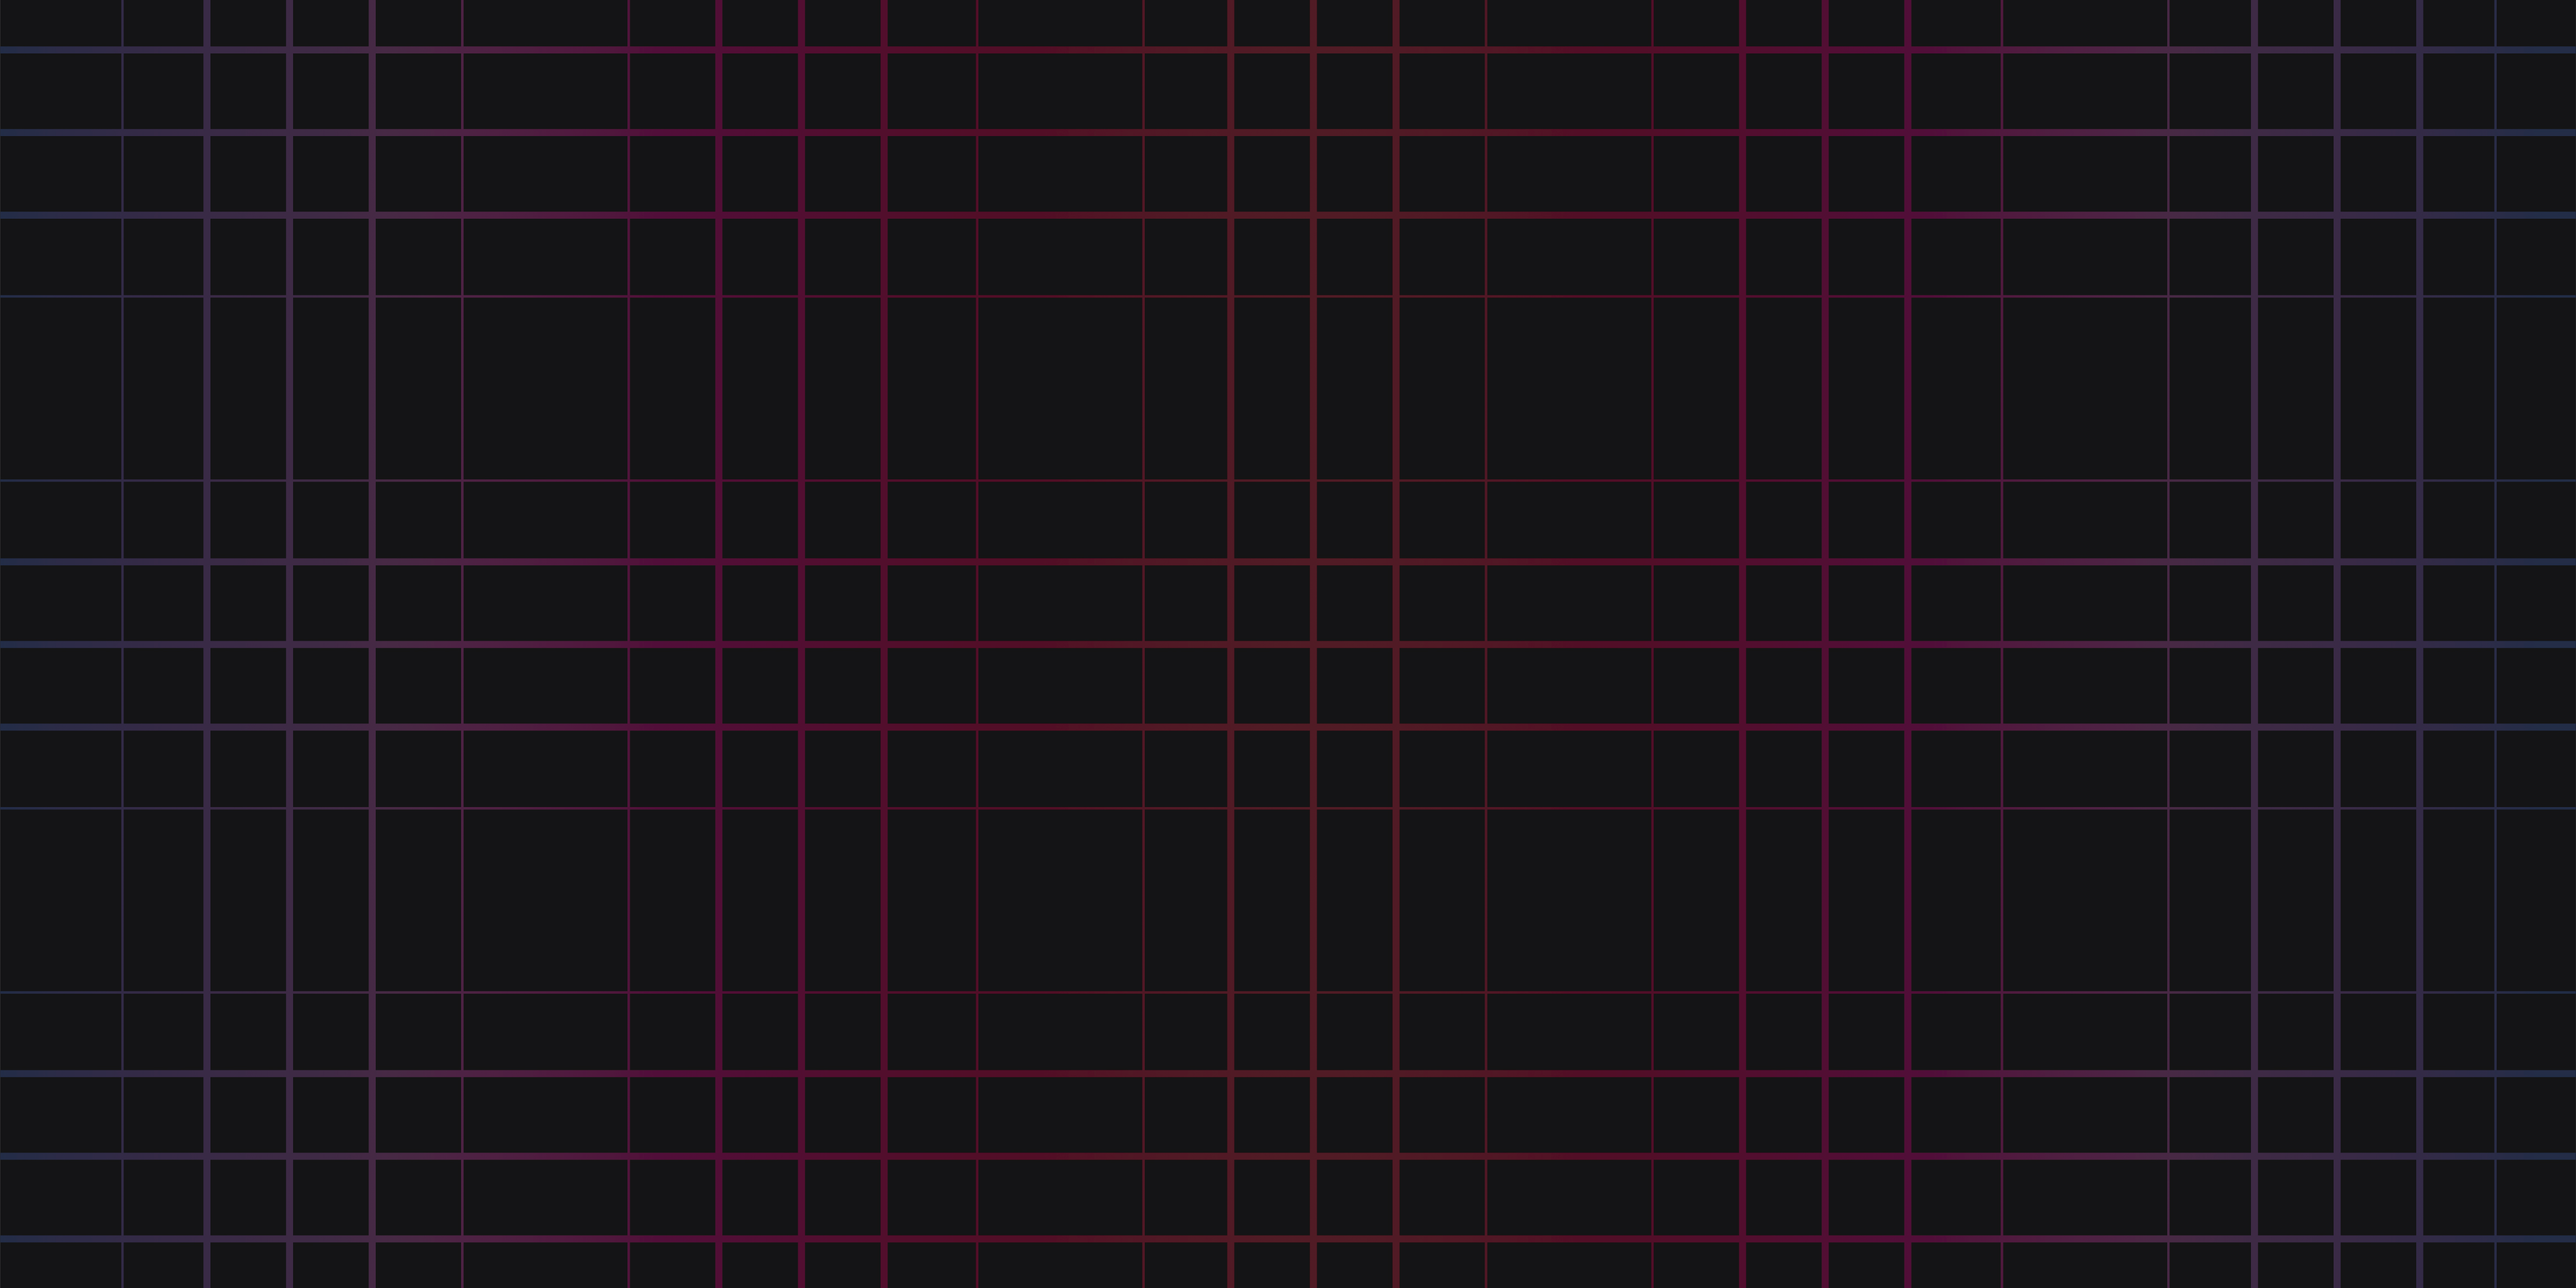
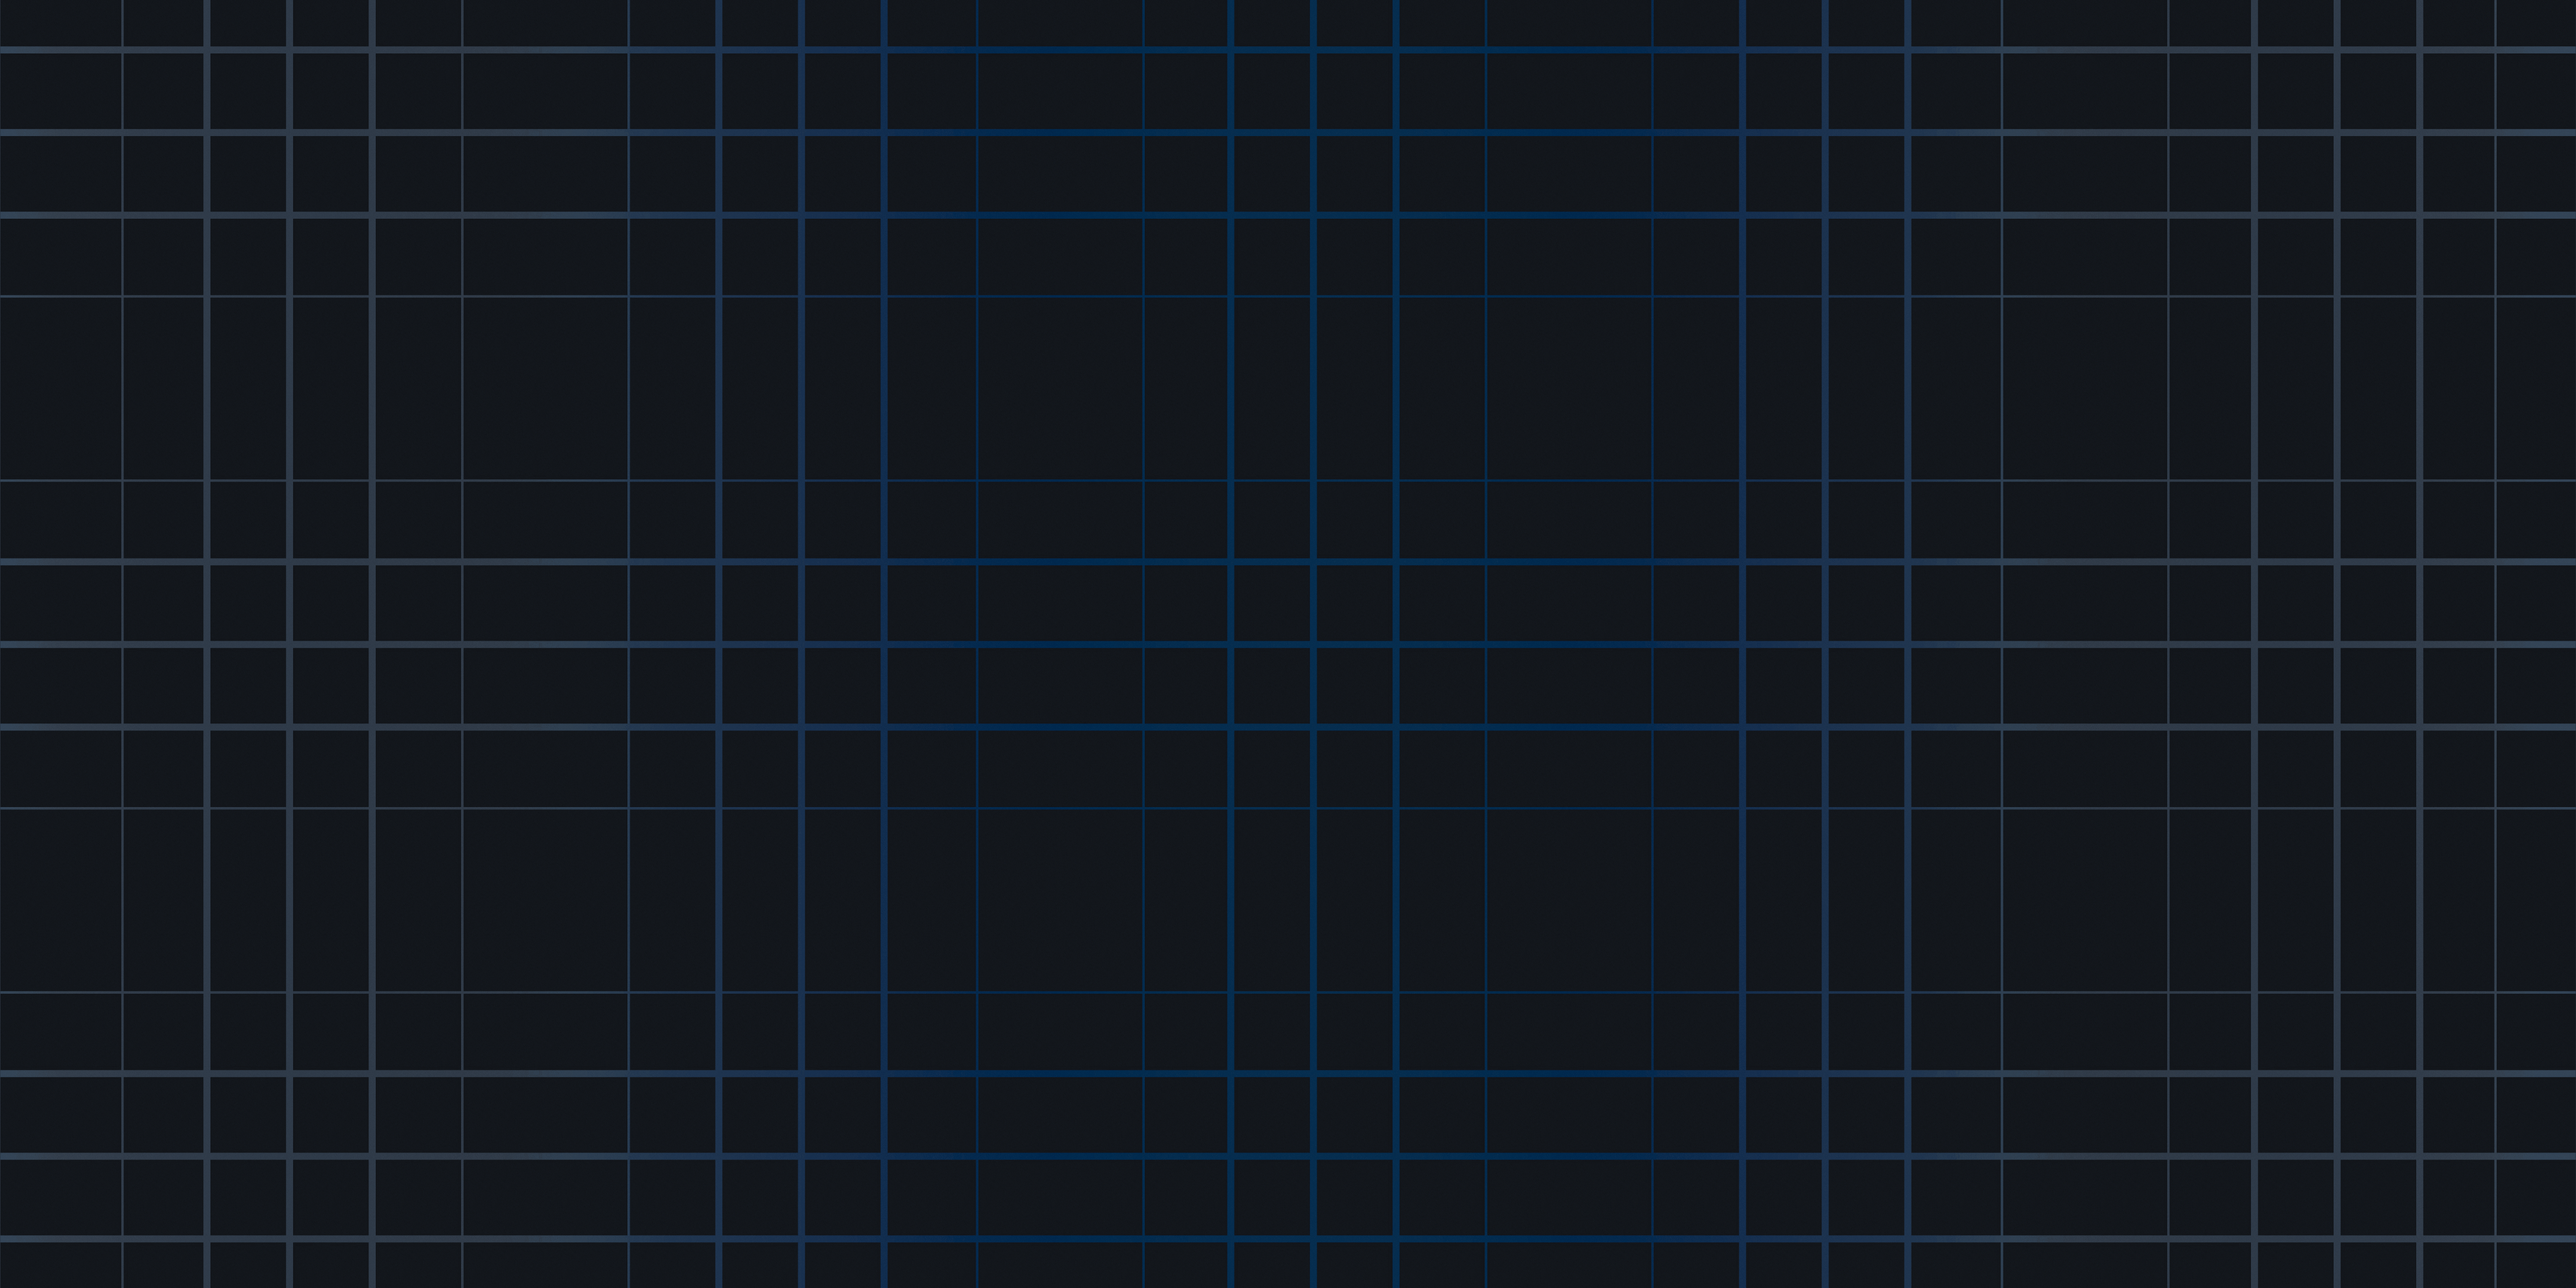
Atualização do layout do site

diff --git a/contato.html b/contato.html
@@ -14,13 +14,13 @@
     <link href="https://fonts.googleapis.com/css2?family=Edu+NSW+ACT+Cursive:wght@400..700&family=Raleway:ital,wght@0,100..900;1,100..900&display=swap" rel="stylesheet">
     
     <title>Jogo de Jogar - Contato</title>
-    <link rel="shortcut icon" href="imagens/joystick.png">
+    <link rel="shortcut icon" href="imagens/iconShortcut.png">
 </head>
 
 <body>
     <header>
         <a href="index.html" title="Home">
-            <img src="imagens/joystick.png" class="header-img" alt="Um Jogo" title="Um Jogo">
+            <img src="imagens/iconHome.png" class="header-img" alt="Um Jogo" title="Um Jogo">
         </a>
         <a href="javascript:mostrarmenu()" class="menu">
             <i class="fas fa-bars"></i>
@@ -49,27 +49,29 @@
         </nav>
     </header>
     <main>
-        <h1>Entre em Contato</h1>
-        <div class="formulario">
-            <form name="form-cadastro" action="" method="post" enctype="multipart/form-data" class="formulario-container">
-                <label for="nome">Digite seu nome:</label>
-                <input type="text" class="formulario" name="nome" id="nome" size="50" maslength="40" placeholder="Nome Completo" autocomplete="off" required>
-                <br>
-                <label for="email">Digite seu e-mail:</label>
-                <input type="email" name="email" id="email" maxlength="50" placeholder="Digite um e-mail válido" autocomplete="off" required class="formulario" inputmode="email">
-                <br>
-                <label for="mensagem">Escreva sua mensagem</label>
-                <br>
-                <textarea name="mensagem" id="mensagem" required placeholder="Digite uma mensagem" class="formulario" rows="15"></textarea>
-                <br>
-                <button type="submit" class="btn-submit" onclick="validar()">
-                    Enviar Dados
-                </button>
-                <button type="reset" class="btn-reset">
-                    Redefinir
-                </button>
-            </form>
-        </div>
+        <section class="container">
+            <h1>Entre em Contato</h1>
+            <div class="formulario">
+                <form name="form-cadastro" action="" method="post" enctype="multipart/form-data" class="formulario-container">
+                    <label for="nome">Digite seu nome:</label>
+                    <input type="text" class="formulario" name="nome" id="nome" size="50" maslength="40" placeholder="Nome Completo" autocomplete="off" required>
+                    <br>
+                    <label for="email">Digite seu e-mail:</label>
+                    <input type="email" name="email" id="email" maxlength="50" placeholder="Digite um e-mail válido" autocomplete="off" required class="formulario" inputmode="email">
+                    <br>
+                    <label for="mensagem">Escreva sua mensagem</label>
+                    <br>
+                    <textarea name="mensagem" id="mensagem" required placeholder="Digite uma mensagem" class="formulario" rows="15"></textarea>
+                    <br>
+                    <button type="submit" class="btn-submit" onclick="validar()">
+                        Enviar Dados
+                    </button>
+                    <button type="reset" class="btn-reset">
+                        Redefinir
+                    </button>
+                </form>
+            </div>
+        </section>
     </main>
     <footer>
         <p>Todos os direitos reservados</p>

diff --git a/css/style.css b/css/style.css
@@ -29,7 +29,7 @@ header nav ul {
 
 header nav ul li {
     display: inline-block;
-    margin: 30px;
+    margin: 50px;
 }
 
 header nav ul li a {
@@ -40,12 +40,12 @@ header nav ul li a {
 }
 
 header nav ul li a:hover {
-    color: rgb(255, 0, 255);
+    color: rgb(0, 149, 255);
     font-size: 17px;   
 }
 
 header nav ul li .btnHeader {
-    background: red;
+    background: rgb(255, 155, 0);
     padding: 5px 10px;
     border-radius: 5px;
     transition: all .5s;
@@ -53,12 +53,12 @@ header nav ul li .btnHeader {
 
 header nav ul li .btnHeader:hover {
     background: white;
-    color: red;
+    color: rgb(255, 155, 0);
 }
 
 h1 {
     margin: 30px;
-    color: rgb(255, 0, 255);
+    color: rgb(0, 149, 255);;
     text-align: center;
 }
 
@@ -83,7 +83,7 @@ h1 {
     border-radius: 5px;
 }
 
-.sobre {
+.container {
     width: 100%;
     display: grid;
     place-items: center;
@@ -122,12 +122,12 @@ label {
 }
 
 .formulario:focus {
-    background: lightyellow;
+    background: rgb(255, 255, 225);
 }
 
 .btn {
     margin: auto;
-    background: red;
+    background: rgb(255, 155, 0);
     text-decoration: none;
     padding: 10px 30px;
     border-radius: 100px;
@@ -136,10 +136,10 @@ label {
 }
 
 .btn:hover {
-    color: red;
+    color: rgb(255, 155, 0);
     background: white;
     font-size: 17px;
-    border: 5px solid red;
+    border: 5px solid rgb(255, 155, 0);
     cursor: pointer;
 }
 
@@ -175,7 +175,7 @@ label {
     color: red;
     font-size: 17px;
     cursor: pointer;
-    border: 5px solid red;
+    border: 5px solid red
 }
 
 footer {
@@ -192,7 +192,7 @@ footer p a {
 
 footer a {
     background: white;
-    color: rgb(188, 0, 188);
+    color: rgb(0, 110, 190);
     text-decoration: none;
     margin: 20px;
     border-radius: 100px;
@@ -203,7 +203,7 @@ footer a {
 }
 
 footer a:hover {
-    background: rgb(188, 0, 188);
+    background: rgb(0, 110, 190);;
     color: white;
 }
 

diff --git a/index.html b/index.html
@@ -14,13 +14,13 @@
     <link href="https://fonts.googleapis.com/css2?family=Edu+NSW+ACT+Cursive:wght@400..700&family=Raleway:ital,wght@0,100..900;1,100..900&display=swap" rel="stylesheet">
     
     <title>Jogo de Jogar - Index</title>
-    <link rel="shortcut icon" href="imagens/joystick.png">
+    <link rel="shortcut icon" href="imagens/iconShortcut.png">
 </head>
 
 <body>
     <header>
         <a href="index.html" title="Home">
-            <img src="imagens/joystick.png" class="header-img" alt="Um Jogo" title="Um Jogo">
+            <img src="imagens/iconHome.png" class="header-img" alt="Um Jogo" title="Um Jogo">
         </a>
         <a href="javascript:mostrarmenu()" class="menu">
             <i class="fas fa-bars"></i>
@@ -56,7 +56,7 @@
                 </iframe>
             </div>
         </section>
-        <section class="sobre">
+        <section class="container">
             <div class="sobre-container">
                 <h1>Sobre o Jogo</h1>
                 <p>

diff --git a/jogar.html b/jogar.html
@@ -14,13 +14,13 @@
     <link href="https://fonts.googleapis.com/css2?family=Edu+NSW+ACT+Cursive:wght@400..700&family=Raleway:ital,wght@0,100..900;1,100..900&display=swap" rel="stylesheet">
     
     <title>Jogo de Jogar - Sobre</title>
-    <link rel="shortcut icon" href="imagens/joystick.png">
+    <link rel="shortcut icon" href="imagens/iconShortcut.png">
 </head>
 
 <body>
     <header>
         <a href="index.html" title="Home">
-            <img src="imagens/joystick.png" class="header-img" alt="Um Jogo" title="Um Jogo">
+            <img src="imagens/iconHome.png" class="header-img" alt="Um Jogo" title="Um Jogo">
         </a>
         <a href="javascript:mostrarmenu()" class="menu">
             <i class="fas fa-bars"></i>
@@ -49,7 +49,7 @@
         </nav>
     </header>
     <main>
-        <section class="sobre">
+        <section class="container">
             <h1>Sobre o Jogo</h1>
             <div class="video-container">
                 <iframe 

diff --git a/sobre.html b/sobre.html
@@ -14,13 +14,13 @@
     <link href="https://fonts.googleapis.com/css2?family=Edu+NSW+ACT+Cursive:wght@400..700&family=Raleway:ital,wght@0,100..900;1,100..900&display=swap" rel="stylesheet">
     
     <title>Jogo de Jogar - Sobre</title>
-    <link rel="shortcut icon" href="imagens/joystick.png">
+    <link rel="shortcut icon" href="imagens/iconShortcut.png">
 </head>
 
 <body>
     <header>
         <a href="index.html" title="Home">
-            <img src="imagens/joystick.png" class="header-img" alt="Um Jogo" title="Um Jogo">
+            <img src="imagens/iconHome.png" class="header-img" alt="Um Jogo" title="Um Jogo">
         </a>
         <a href="javascript:mostrarmenu()" class="menu">
             <i class="fas fa-bars"></i>
@@ -49,7 +49,7 @@
         </nav>
     </header>
     <main>
-        <section class="sobre">
+        <section class="container">
             <h1>Sobre o Jogo</h1>
             <div class="video-container">
                 <iframe 
